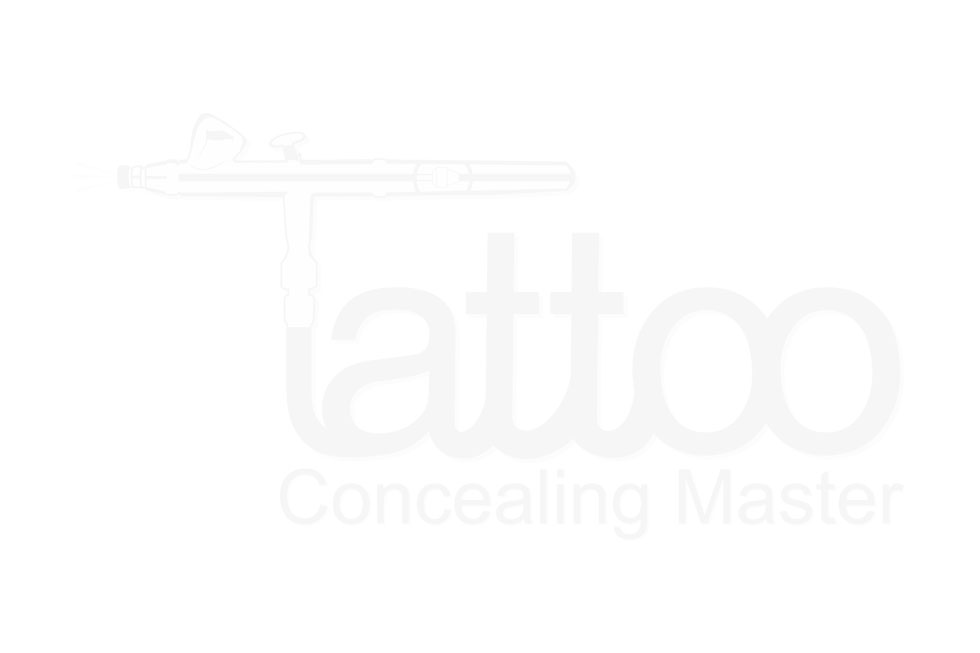
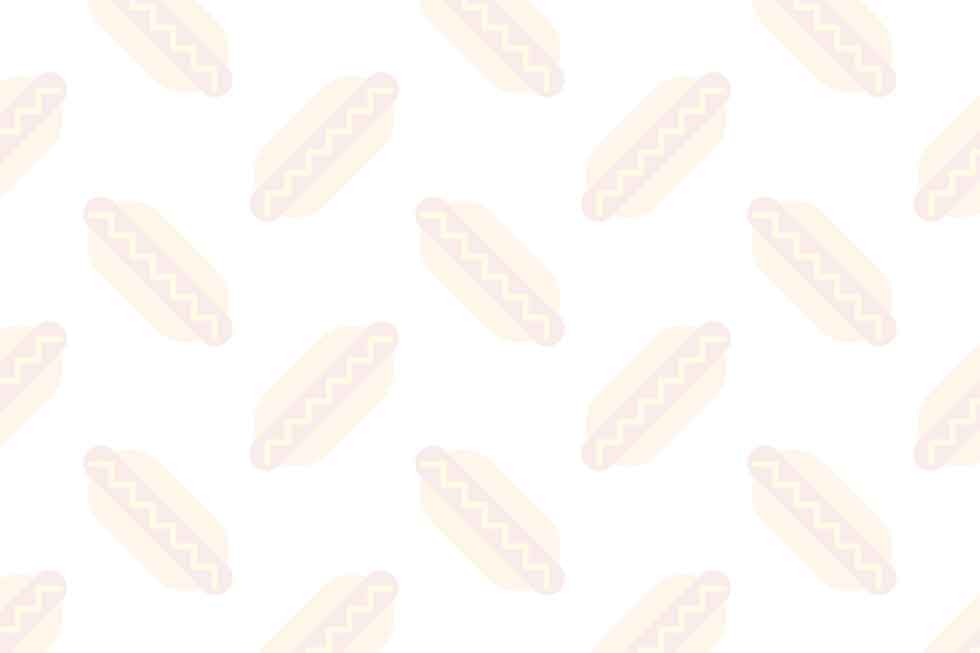
Last Changes

diff --git a/css/style.css b/css/style.css
@@ -12,13 +12,18 @@ html {
 	-o-background-size: contain;
 	background-size: contain;
 	}
-body{ background:none !important;}
+body{background-image: url('../images/main-bg1.jpg'); padding-top:40px;}
 #login {
-    padding: 14% 0 0;
+    /* padding: 14% 0 0; */
+    padding:20px;
     width: 900px;
+    background-color: rgb(231, 231, 231);
+    border-radius:10px;
+    box-shadow:1px 1px 8px 8px #ccc;
 }
 .login label{ color:#FFF !important;}
 #login h1{ text-align:center;}
+#login h3{color: #919090;text-align:center;width:100%;display: block;}
 .login h1 a {
     background-image: url("../images/logo-new.png") !important;
     background-position: left top;
@@ -39,18 +44,20 @@ body{ background:none !important;}
     background-size: contain;
 }
 #login form {
-    background-color: transparent;
+    background-color: #cc0000;
     padding: 30px 70px;
     width: 300px;
+    border-radius:10px;
 }
 .login form {
-    background: #fff none repeat scroll 0 0;
-    box-shadow: 0 1px 3px rgba(0, 0, 0, 0.13);
-    font-weight: 400;
-    margin-left: 0;
-    margin-top: 20px;
-    overflow: hidden;
-    padding: 26px 24px 46px;
+	/* background-image: url("../images/info-bg.png"); */
+	/* background: #fff none repeat scroll 0 0; */
+	box-shadow: 0 1px 3px rgba(0, 0, 0, 0.13);
+	font-weight: 400;
+	margin-left: 0;
+	margin-top: 20px;
+	overflow: hidden;
+	padding: 26px 24px 46px;
 }
 
 
@@ -82,3 +89,11 @@ body{ background:none !important;}
 .message-view{ padding:8px; background-color:#FFF; margin-top:-70px; text-align:center;}
 #login_error{ margin-top:-100px;}
 /*.message{ margin-top:-60px !important;}*/
+
+@media (min-width: 100px) and (max-width: 600px) {
+#login form{ border-radius:0px;}	
+body{ padding:0px; }	
+#login{width:100% !important;padding: 0px;margin: auto;box-shadow:none !important; border-radius:0px;}
+.login h1 a{width: 100% !important;display: block;margin: auto !important;padding: 0px;background-position: center;}
+#login form{width: auto;/* padding: 0px; */}
+}

diff --git a/js/script.js b/js/script.js
@@ -10,9 +10,9 @@ jQuery(document).ready(function(e) {
 	
 	if(message!=""){jQuery("#login h1").after('<p class="message-view">*'+message+'</p>');}
 	jQuery(".message").hide();
-    jQuery("#login h1").after('<p>Please enter your <strong>Username</strong> and <strong>Password</strong>.</p>');
+    jQuery("#login h1").after('<h3>Welcome please enter your <strong>Username</strong> and <strong>Password</strong>.</h3>');
 	
-	jQuery("#backtoblog").html('<a title="Are you lost?" href="http://www.TattooConcealingMaster.com">← Back to www.TattooConcealingMaster.com</a>');
+	jQuery("#backtoblog").html('<a title="Are you lost?" href="http://www.alacart.com">← Back to www.alacart.com</a>');
 });
 
 
